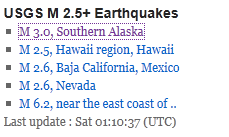
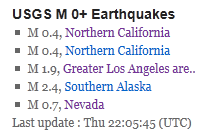
V1.4 Released
git-svn-id: https://plugins.svn.wordpress.org/earthquakemonitor/trunk@419540 b8457f37-d9ea-0310-8a92-e5e31aec5664

diff --git a/EarthquakeMonitor.php b/EarthquakeMonitor.php
@@ -1,15 +1,15 @@
 <?php
 /*
 Plugin Name: Earthquakemonitor Widget
-Version: 1.3
+Version: 1.4
 Plugin URI: http://wordpress.org/extend/plugins/Earthquakemonitor
-Description: Earthquake Monitor is a customizable widget that shows an overview of earthquakes around the world from the U.S. Geological Surveys data. 
-Author: Cris van Geel
+Description: Earthquake Monitor is a very customizable widget that shows an overview of earthquakes around the world from the U.S. Geological Surveys data. 
+Author: <a href="http://www.yellownote.nl">Cris van Geel</a>
 Author URI: http://www.yellownote.nl
 License: GNU General Public License, version 2
 */
 
-/*  Copyright 2011  Cris van Geel  (email : cm.v.geel@gmail.com)
+/*  Copyright 2011  Cris van Geel  (email : cm [dot] v [dot] geel [at] gmail [dot] com)
 
     This program is free software; you can redistribute it and/or modify
     it under the terms of the GNU General Public License, version 2, as 
@@ -43,12 +43,13 @@ class EarthQuakeMonitor extends WP_Widget {
 		$instance = wp_parse_args( (array) $instance, array('feed' => 'eqs7day-M2.5', 
 															'noearthquakes' => 'No Earthquakes', 
 															'showupdateformat' => 'D H:i:s (T)', 
+															'displayformat' => '{mag},{loc}', 
 															'lastupdatetxt' => 'Last update :', 
 															'customtitle' => '',
 															'filter' => '',
 															'eqmcachetimer' => 3600,
 															'show' => 5, 
-															'trim' => 30, 
+															'trim' => 24, 
 															'showtitle' => true , 
 															'linkable' => true , 
 															'newwindow' => true , 
@@ -66,6 +67,7 @@ class EarthQuakeMonitor extends WP_Widget {
 		$linkable = (bool) $instance['linkable'];
 		$newwindow = (bool) $instance['newwindow'];
 		$showupdate = (bool) $instance['showupdate'];
+		$displayformat = esc_attr($instance['displayformat']);
 
 		$show = absint($instance['show']);
 		if ( $show < 1 || 30 < $show ) { $show = 5; }
@@ -106,7 +108,7 @@ class EarthQuakeMonitor extends WP_Widget {
 		echo "<input class='widefat' id='" . $this->get_field_id('lastupdatetxt') . "' name='" . $this->get_field_name('lastupdatetxt') . "' type='text' value='" . $lastupdatetxt . "' /></p>";
 		
 		/* Trim count */
-		echo "<p><label for='" . $this->get_field_id('trim') ."'>". esc_html__('Trim at char count (0=no trim)')."</label>";
+		echo "<p><label for='" . $this->get_field_id('trim') ."'>". esc_html__('Trim location (0=no trim)')."</label>";
 		echo "<input class='widefat' id='" . $this->get_field_id('trim') . "' name='" . $this->get_field_name('trim') . "' type='text' value='" . $trim . "' /></p>";
 
 		/* Cache counter */
@@ -135,7 +137,7 @@ class EarthQuakeMonitor extends WP_Widget {
 		if ( $linkable ) {
 			echo ' checked="checked"';
 		}
-		echo " /> " . esc_html__('Make linkable') . "</label></p>";
+		echo " /> " . esc_html__('Make location linkable') . "</label></p>";
 	
 		/* New Window? */
 		echo "<p><label for='" . $this->get_field_id('newwindow') . "'><input id='" . $this->get_field_id('newwindow') . "' class='checkbox' type='checkbox' name='" . $this->get_field_name('newwindow') . "'";
@@ -150,7 +152,27 @@ class EarthQuakeMonitor extends WP_Widget {
 			echo ' checked="checked"';
 		}
 		echo " /> " . esc_html__('Show last update') . "</label></p>";
-
+		
+		
+		echo "<hr />";
+		echo "<h3>Usable variable</h3>";
+		echo "<ul>";
+		echo "<li>{loc} Earthquake location</li>";
+		echo "<li>{hrtime} Time past since quake</li>";
+		echo "<li>{time} Time of last quake</li>";
+		echo "<li>{mag} Magnitude</li>";
+		echo "<li>{lat} Latitude</li>";
+		echo "<li>{long} Longitude</li>";
+		echo "<li>{depth_m} Depth Metric units</li>";
+		echo "<li>{depth_i} Depth in Imperial units</li>";
+		echo "</ul>";
+		echo "<hr />";
+		
+		/* Display Format */
+		echo "<p><label for='" . $this->get_field_id('displayformat') ."'>". esc_html__('Display format')."</label>";
+		echo "<input class='widefat' id='" . $this->get_field_id('displayformat') . "' name='" . $this->get_field_name('displayformat') . "' type='text' value='" . $displayformat . "' size=2 /></p>";
+		
+		
 	}
 	
 	
@@ -169,6 +191,7 @@ class EarthQuakeMonitor extends WP_Widget {
 			$instance['linkable'] = isset($new_instance['linkable']);
 			$instance['newwindow'] = isset($new_instance['newwindow']);
 			$instance['showupdate'] = $new_instance['showupdate'];
+			$instance['displayformat'] = trim( stripslashes( $new_instance['displayformat'] ) );
 			$instance['feed'] = $new_instance['feed'];
 			return $instance;
 		
@@ -186,7 +209,7 @@ class EarthQuakeMonitor extends WP_Widget {
 			}
 			
 
-echo $temp_file;
+
 		}
 	
 	
@@ -214,7 +237,7 @@ echo $temp_file;
 	function retrievexml($feed,$cachetimer,$myfilter) {
 		
 		$filename = sys_get_temp_dir().'/'.$feed;
-		if (time()- $cachetimer > filemtime(sys_get_temp_dir()."/".$feed)) {
+		if (time()- $cachetimer > @filemtime(sys_get_temp_dir()."/".$feed)) {
 		
 			/* Refresh Cache */
 			
@@ -230,6 +253,7 @@ echo $temp_file;
 		
 			/* Read from Cache */
 			$stringXML = @file_get_contents($filename);
+			
 
 			}
 
@@ -281,25 +305,43 @@ echo $temp_file;
 			
 			for ($i = 0; $i < $max; $i++) {
 			
-			$title = $arrayXML[$i]->title;
-				
-				if ($instance['trim'] > 0 and strlen($title) > $instance['trim'] ) 
-					{
-					  $title = substr($title,0,$instance['trim'])."..";
-					}
-				
-				if (!$instance['linkable']) {
-					echo "<li>{$title}</li>\n";
+			
+			
+			/* Format display according display format */
+						
+			$loc = substr($arrayXML[$i]->title,6);
+		
+			if ($instance['trim'] > 0 and strlen($loc) > $instance['trim'] ) 
+				{
+				  $loc = substr($loc,0,$instance['trim'])."..";
 				}
-				else {
-				
-				if ($instance['newwindow']) 
-					{ $target = "_blank"; } 
-				else 
-					{ $target = "_top"; };
-				
-				echo "<li><a target='{$target}' title='{$arrayXML[$i]->description} {$arrayXML[$i]->title} ' href='{$arrayXML[$i]->link}'>{$title}</a></li>\n";
-				}
+			
+			$mag = substr($arrayXML[$i]->title,0,5);
+			$hrtime = human_time_diff(strtotime($arrayXML[$i]->pubDate) ,  current_time("timestamp"),$gmt = 0 );
+			$time = strtotime($arrayXML[$i]->pubDate);
+			$time = date($instance['showupdateformat'],$time);
+			$lat = $arrayXML[$i]->children("geo",true)->lat;
+			$long = $arrayXML[$i]->children("geo",true)->long;
+			$depth_m = $arrayXML[$i]->children("dc",true)->subject[2];
+			$depth_i = round(substr($depth_m,0,-2) * 0.621371192,1)." miles" ;
+			
+		
+			
+			if ($instance['newwindow']) 
+				{ $target = "_blank"; } 
+			else 
+				{ $target = "_top"; }
+			
+			if ($instance['linkable'])
+				{ $loc = "<a target='{$target}' title='{$arrayXML[$i]->description} {$arrayXML[$i]->title} ' href='{$arrayXML[$i]->link}'>{$loc}</a>"; }
+			
+			/* Parse user string */
+			$display = $instance['displayformat'];
+			$variable = array("{loc}","{mag}","{time}","{lat}","{long}","{lat}","{depth_m}","{depth_i}","{hrtime}");
+			$replace = array("{$loc}","{$mag}","{$time}","{$lat}","{$long}","{$lat}","{$depth_m}","{$depth_i}","{$hrtime}");
+			$parseddisplay = str_replace($variable, $replace, $display);
+			
+			echo "<li>".$parseddisplay."</li>";
 					
 			}
 			
